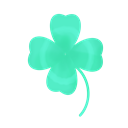
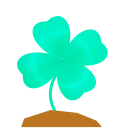
[CE] fix: 로고 변경

diff --git a/extension/src/components/Header.jsx b/extension/src/components/Header.jsx
@@ -1,11 +1,13 @@
+import logo from '../assets/Logo.png';
+
 const Header = () => {
-	return (
-		<>
-			<div className="flex w-full h-[60px] bg-MAIN1 justify-center items-center">
-				<p className="text-center text-white text-[24px] font-bold">RE:CODE</p>
-			</div>
-		</>
-	);
+  return (
+    <>
+      <div className="flex w-full bg-MAIN2 h-[60px] justify-center items-center px-[30%]">
+        <img src={logo} alt="" className="w-full" />
+      </div>
+    </>
+  );
 };
 
 export default Header;
